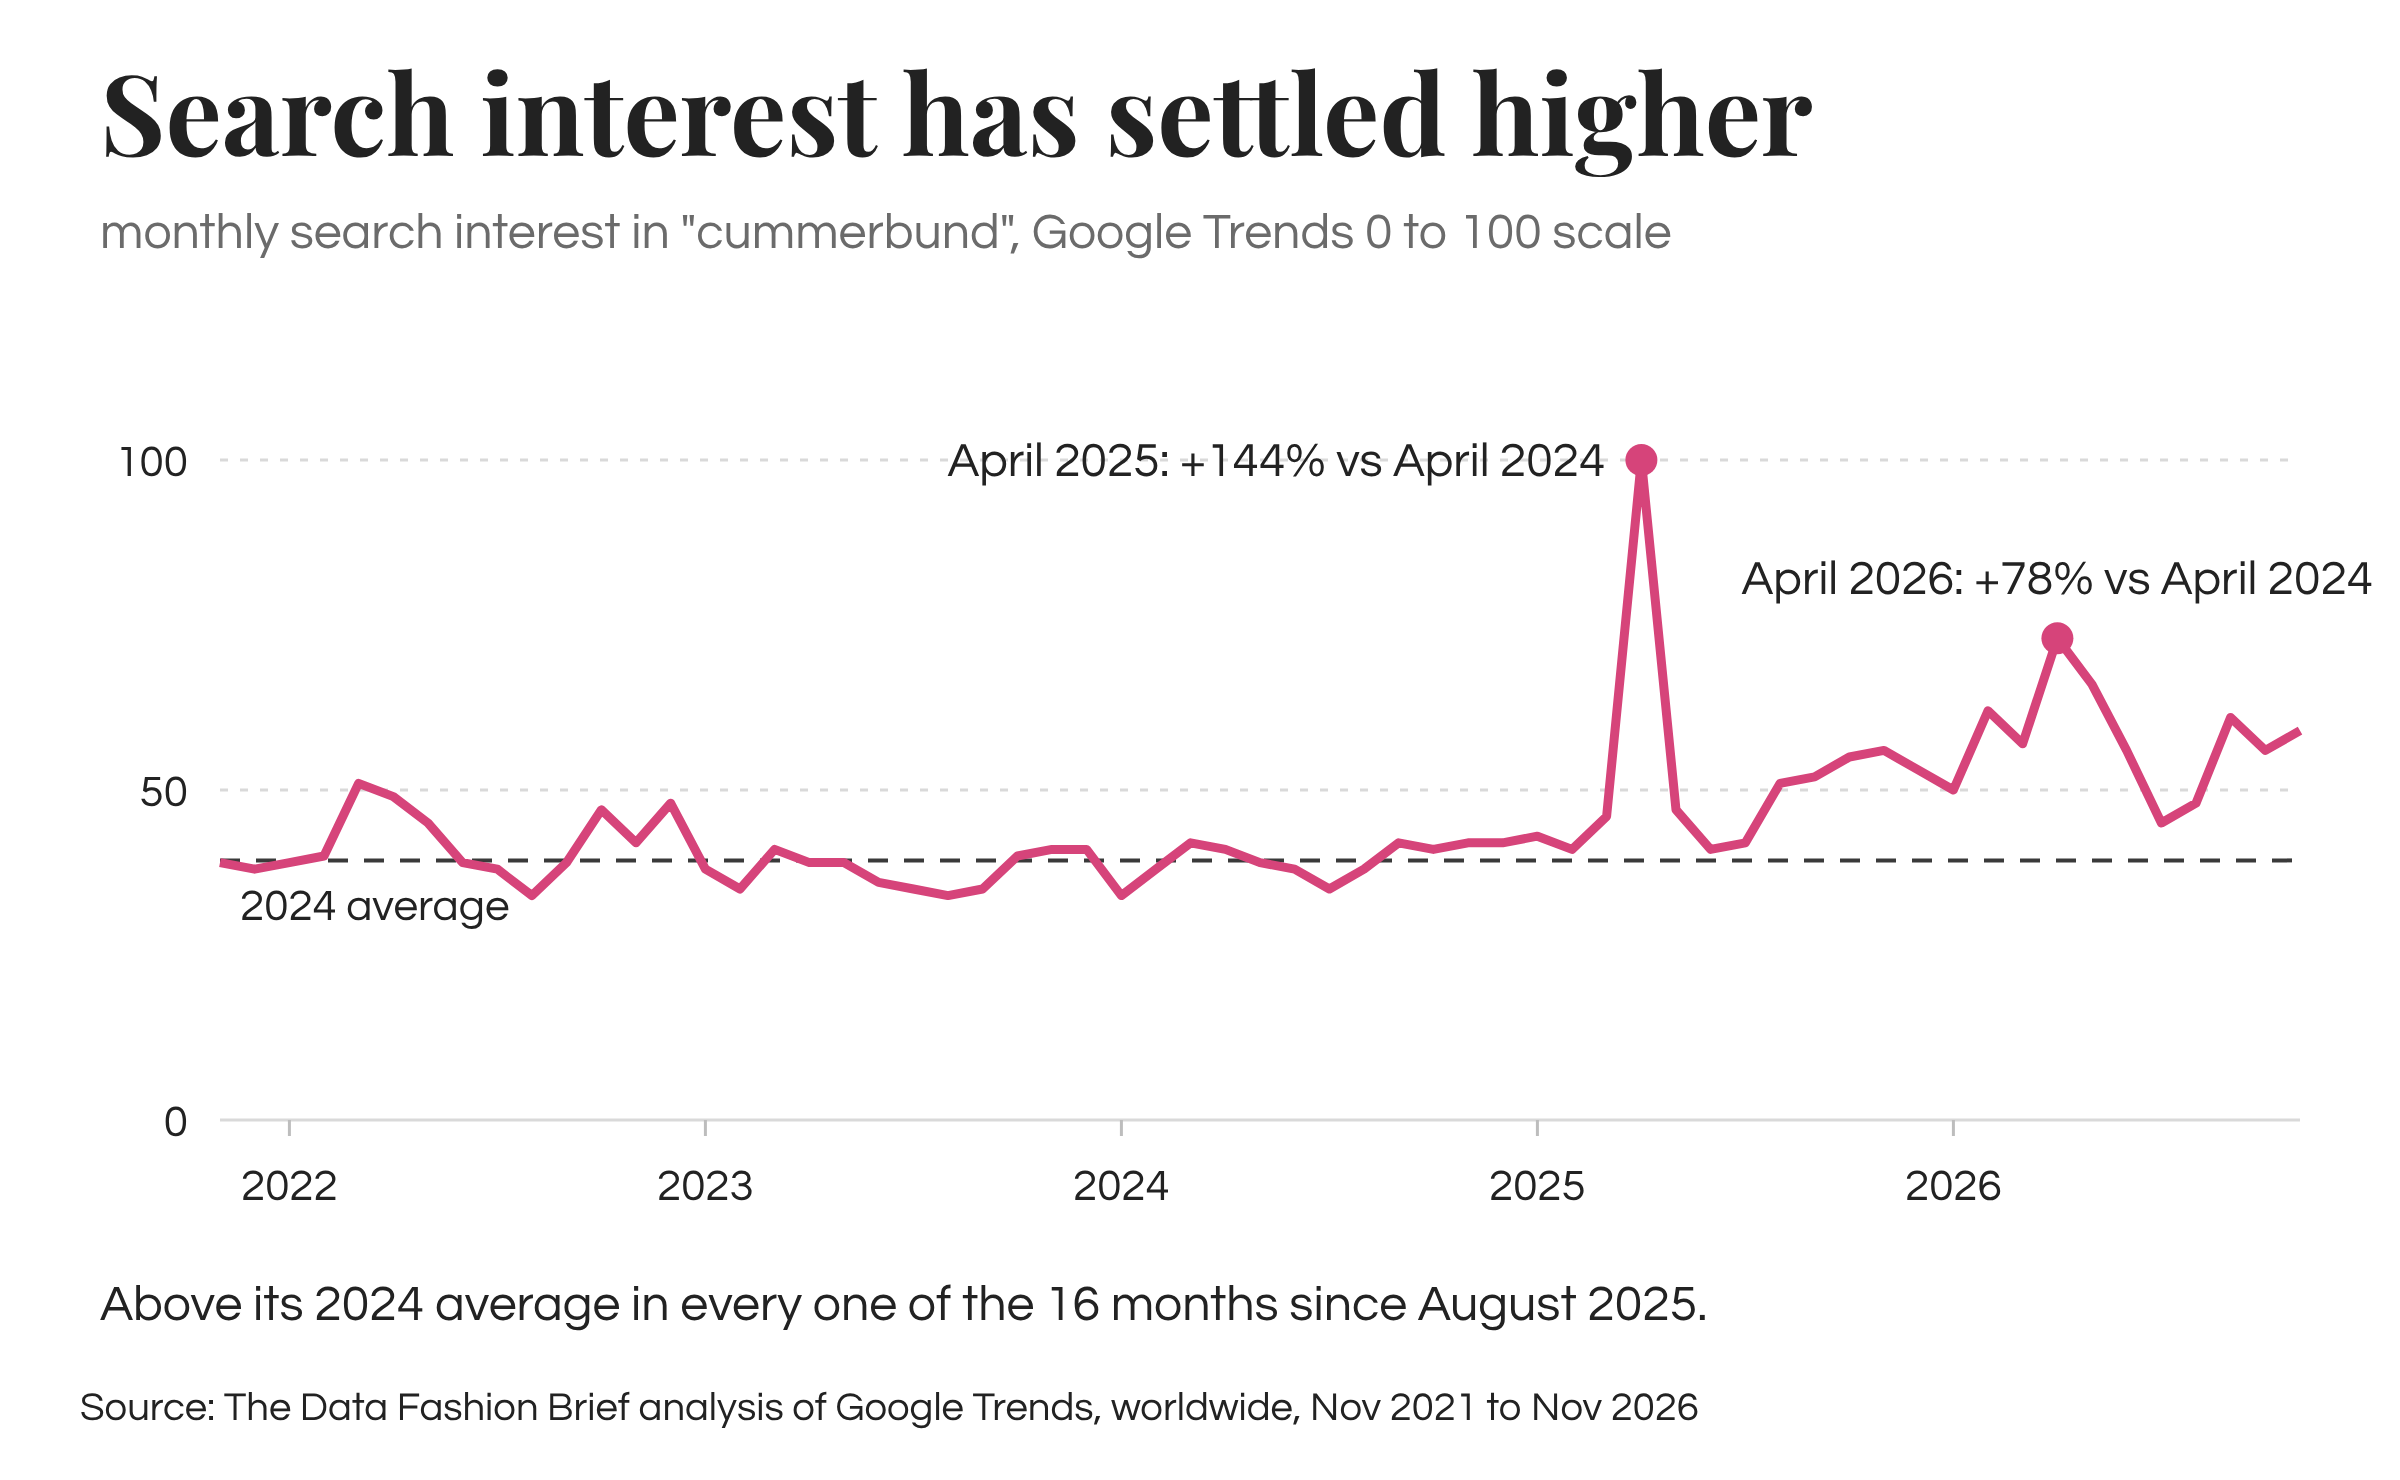
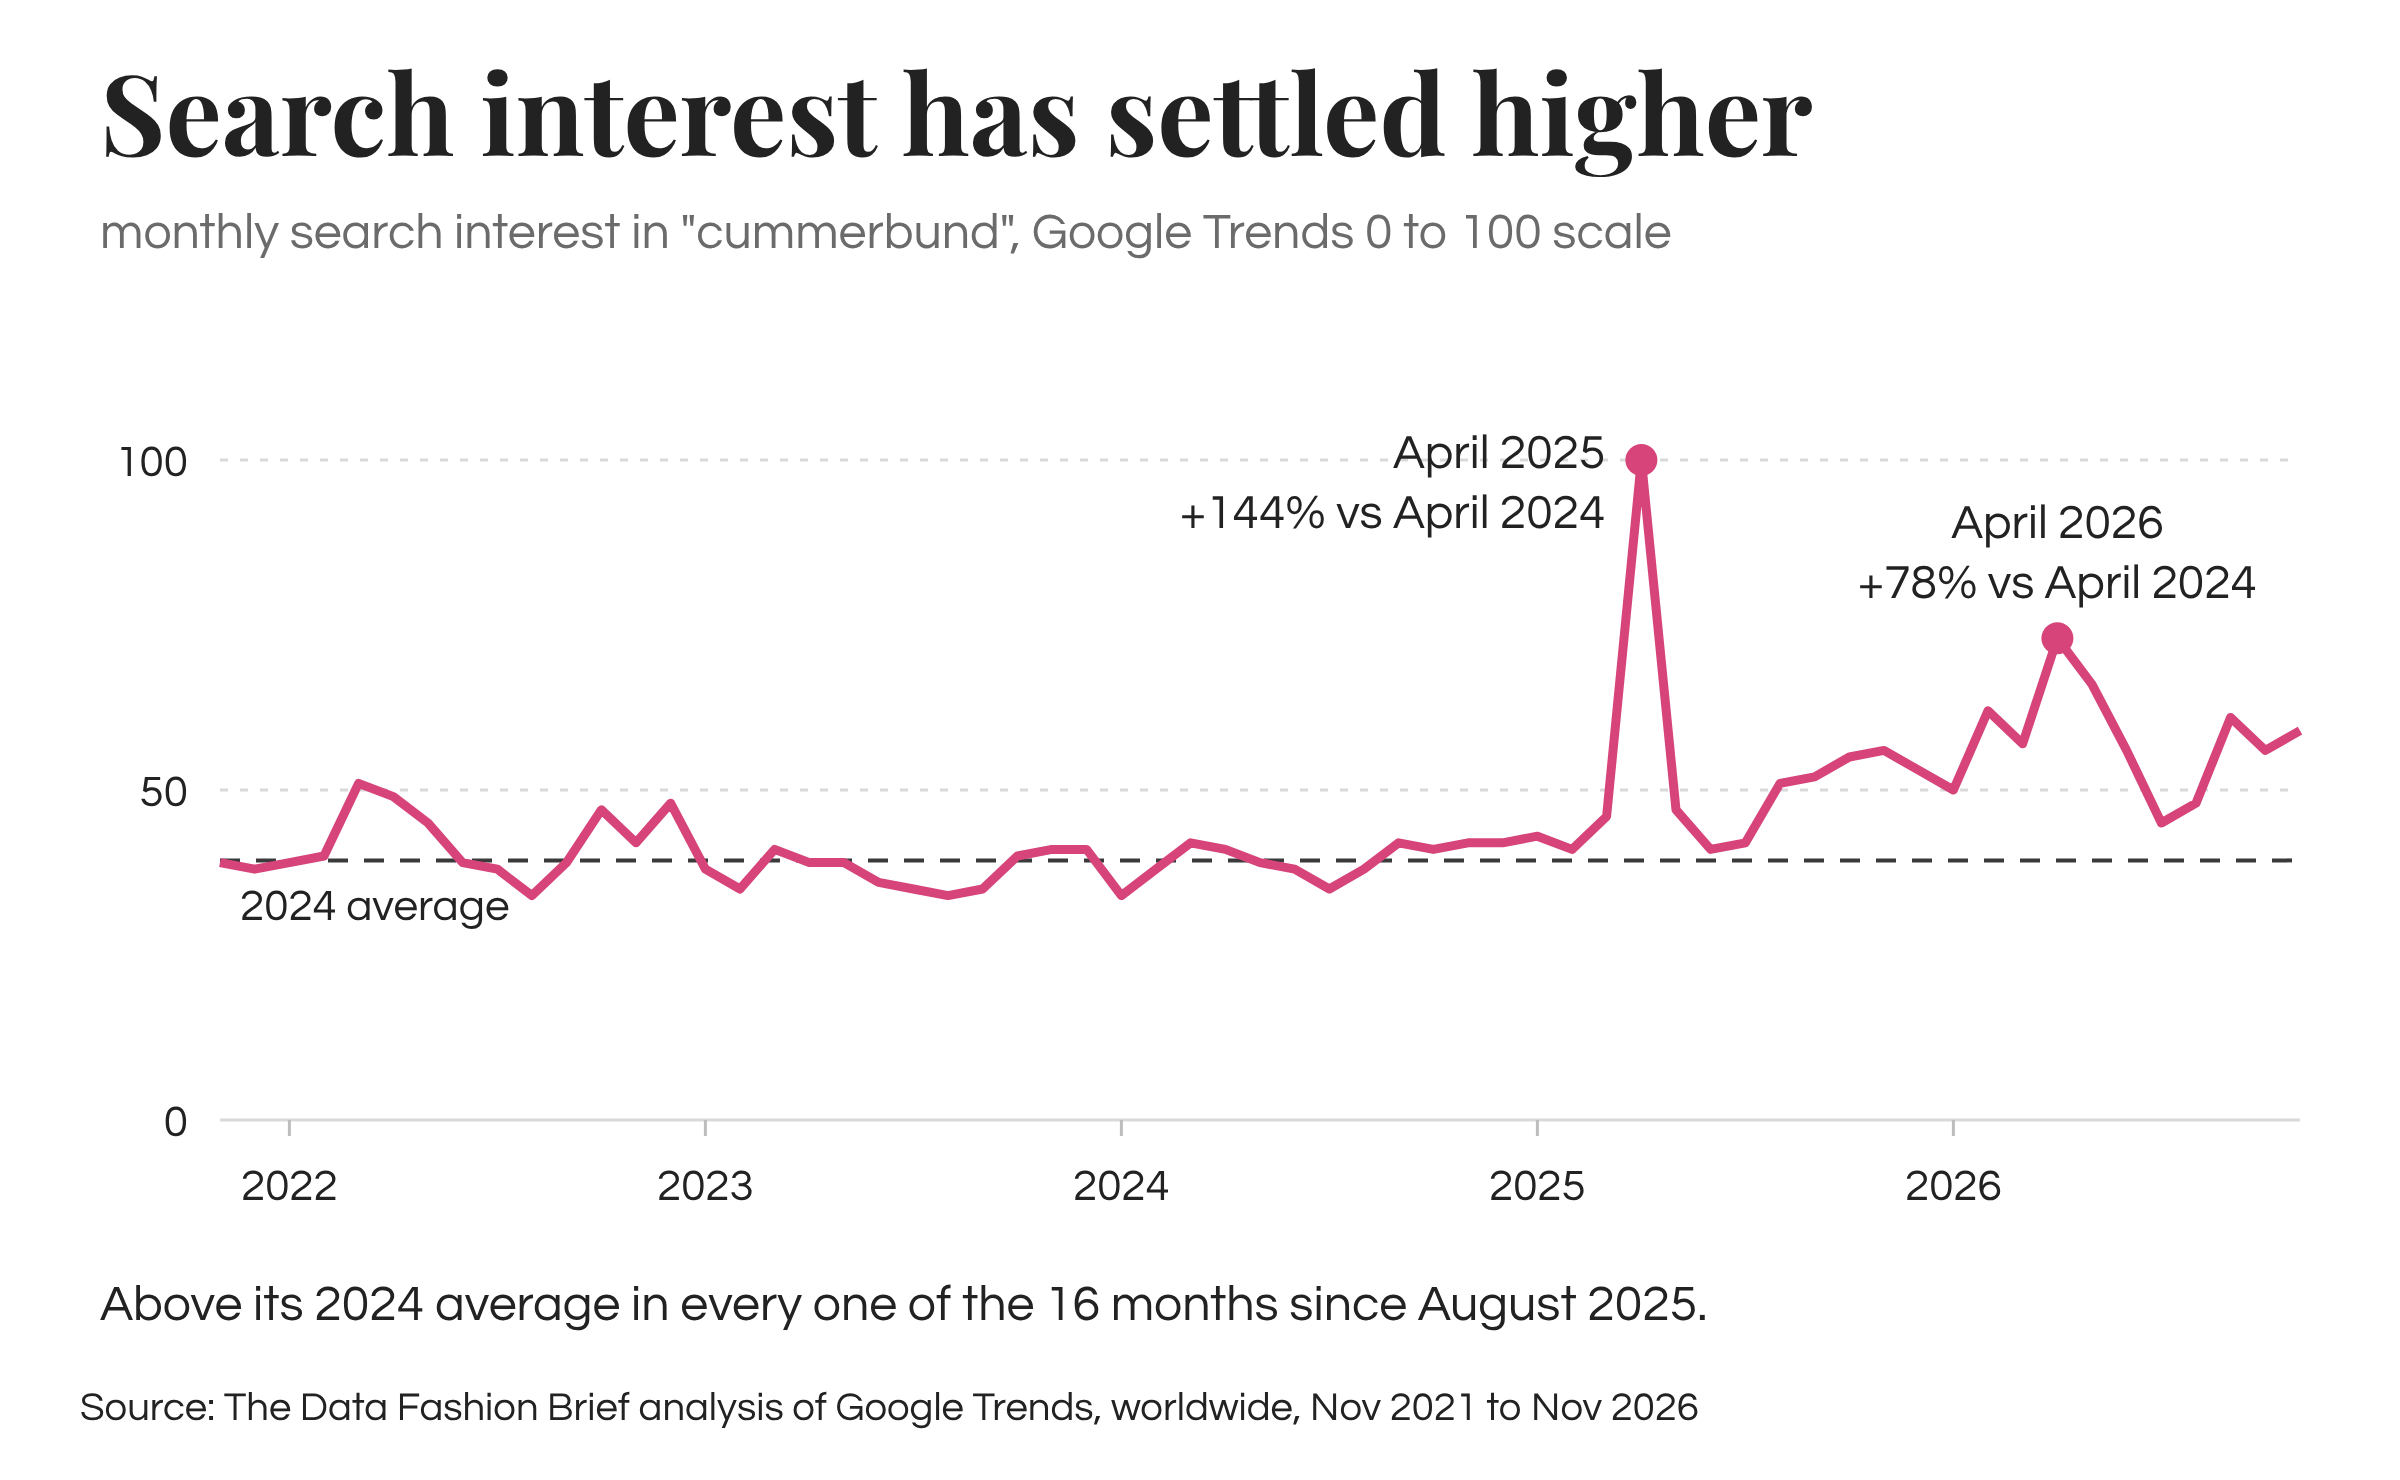
Cummerbund search chart: April labels on two lines
Claude-Session: https://claude.ai/code/session_01N7aeZYmFhiXPCpFMXGKg34

Changed region(s): [[0.5, 0.2797, 0.6562, 0.373], [0.7188, 0.3419, 1.0, 0.4041], [0.4062, 0.2797, 0.4688, 0.3419]]

diff --git a/drafts/fashionunited-cummerbund-charts/build_charts.py b/drafts/fashionunited-cummerbund-charts/build_charts.py
@@ -92,7 +92,8 @@ def line_chart(name, title, subtitle, series, note, source, ref=None, marks=()):
         prev = val[f'{int(dte[:4]) - (int(dte[:4]) - 2024)}{dte[4:]}']   # same month of 2024, the flat baseline year
         chg = half_up(100 * (val[dte] / prev - 1))
         p.append(f'<circle cx="{xp(i):.1f}" cy="{yp(val[dte]):.1f}" r="8" fill="{PINK}"/>')
-        p.append(f'<text x="{xp(i)+dx:.1f}" y="{yp(val[dte])+dy:.1f}" text-anchor="{anchor}" font-family="{SANS}" font-size="24" fill="{INK}">April {dte[:4]}: +{chg}% vs April 2024</text>')
+        for k, line in enumerate((f'April {dte[:4]}', f'+{chg}% vs April 2024')):
+            p.append(f'<text x="{xp(i)+dx:.1f}" y="{yp(val[dte])+dy+k*30:.1f}" text-anchor="{anchor}" font-family="{SANS}" font-size="24" fill="{INK}">{line}</text>')
     for i, (dte, _) in enumerate(series):
         if dte[5:7] == '01':
             p.append(f'<line x1="{xp(i):.1f}" y1="{y1}" x2="{xp(i):.1f}" y2="{y1+8}" stroke="#BDBDBD" stroke-width="1.5"/>')
@@ -122,7 +123,7 @@ charts.append(line_chart('02-cummerbund-search', 'Search interest has settled hi
     'monthly search interest in "cummerbund", Google Trends 0 to 100 scale',
     rows, f'Above its 2024 average in every one of the {len(since)} months since August 2025.', GT,
     ref=('2024 average', a2024),
-    marks=(('2025-04-01', 'end', -18, 8), ('2026-04-01', 'middle', 0, -22))))
+    marks=(('2025-04-01', 'end', -18, 4), ('2026-04-01', 'middle', 0, -50))))
 
 jan_nov = range(1, 12)
 years = [(str(y), avg(y, jan_nov)) for y in (2022, 2023, 2024, 2025, 2026)]
